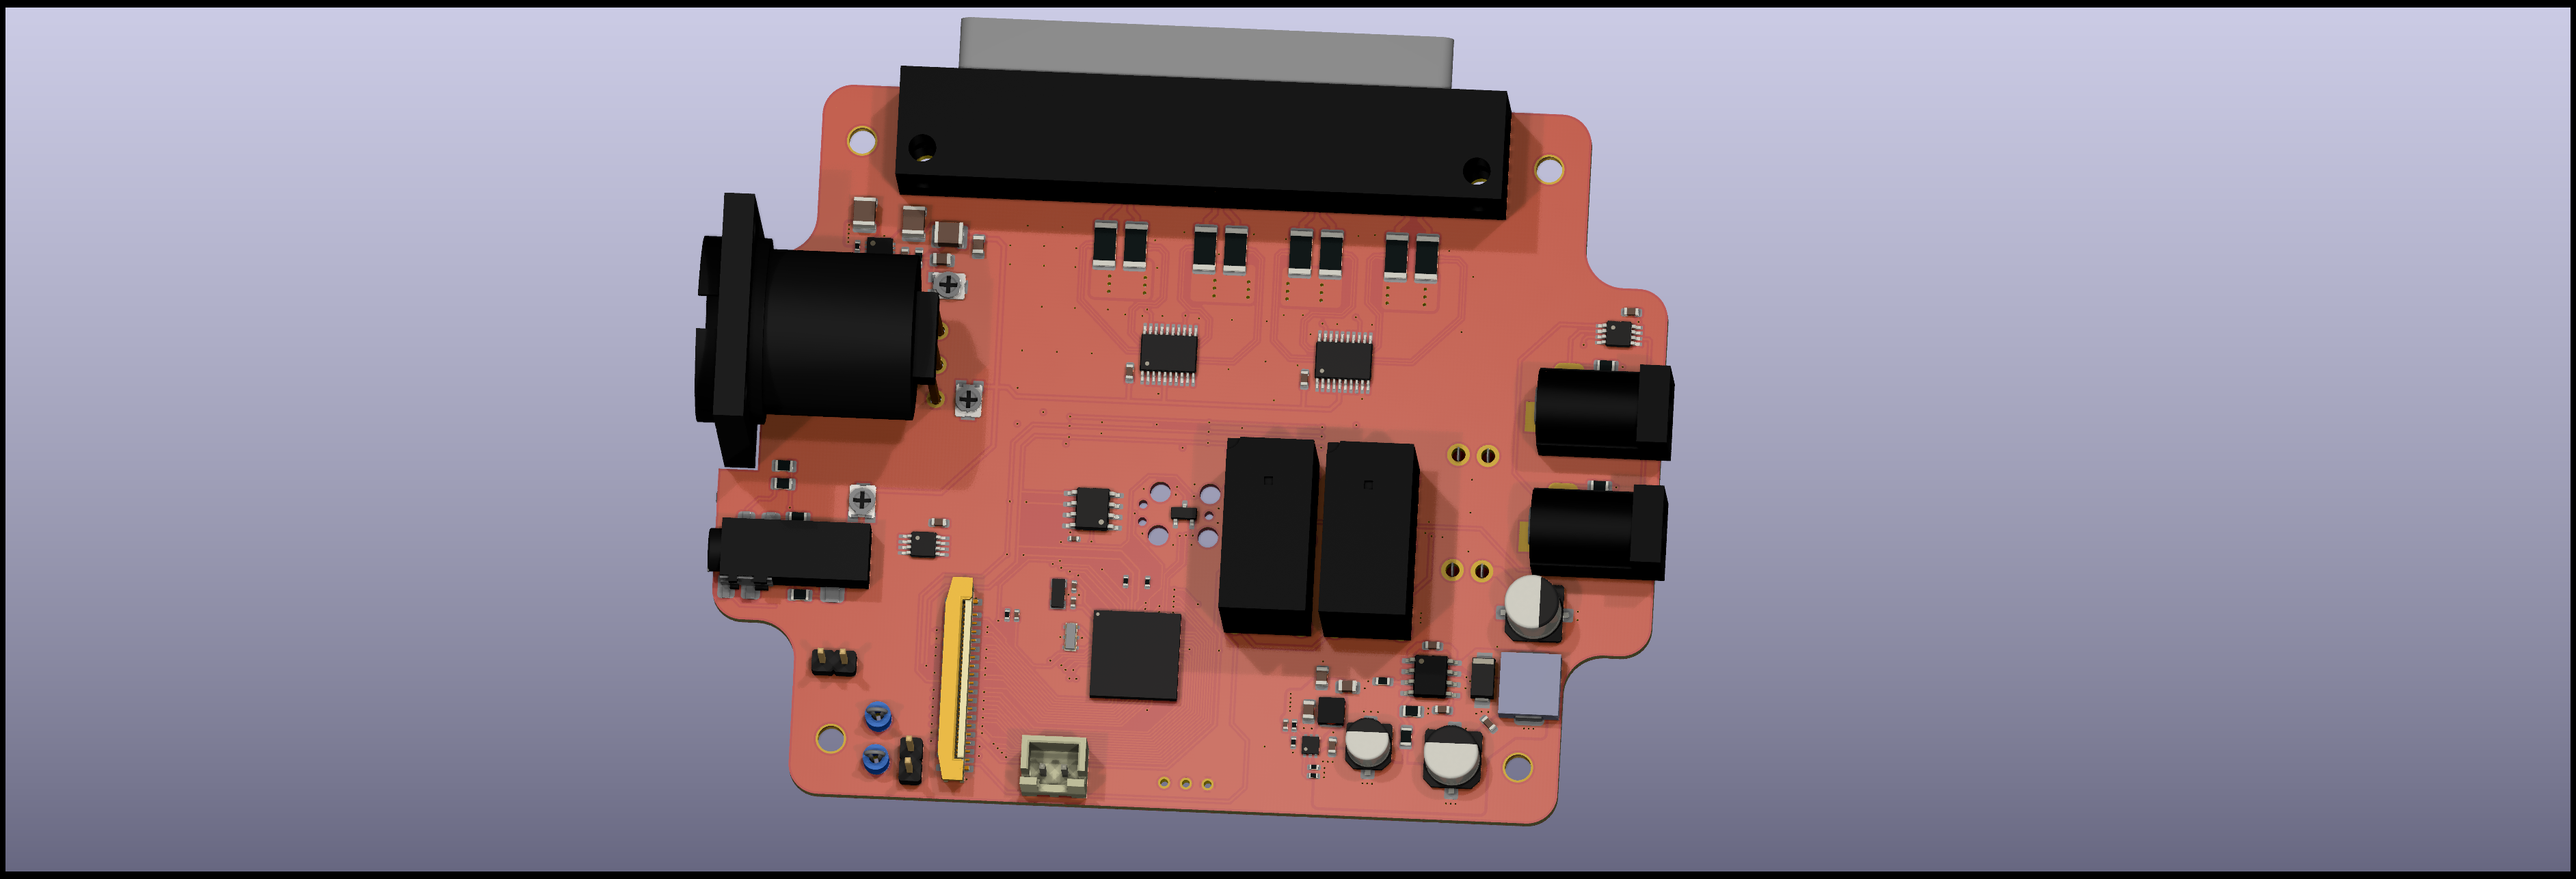
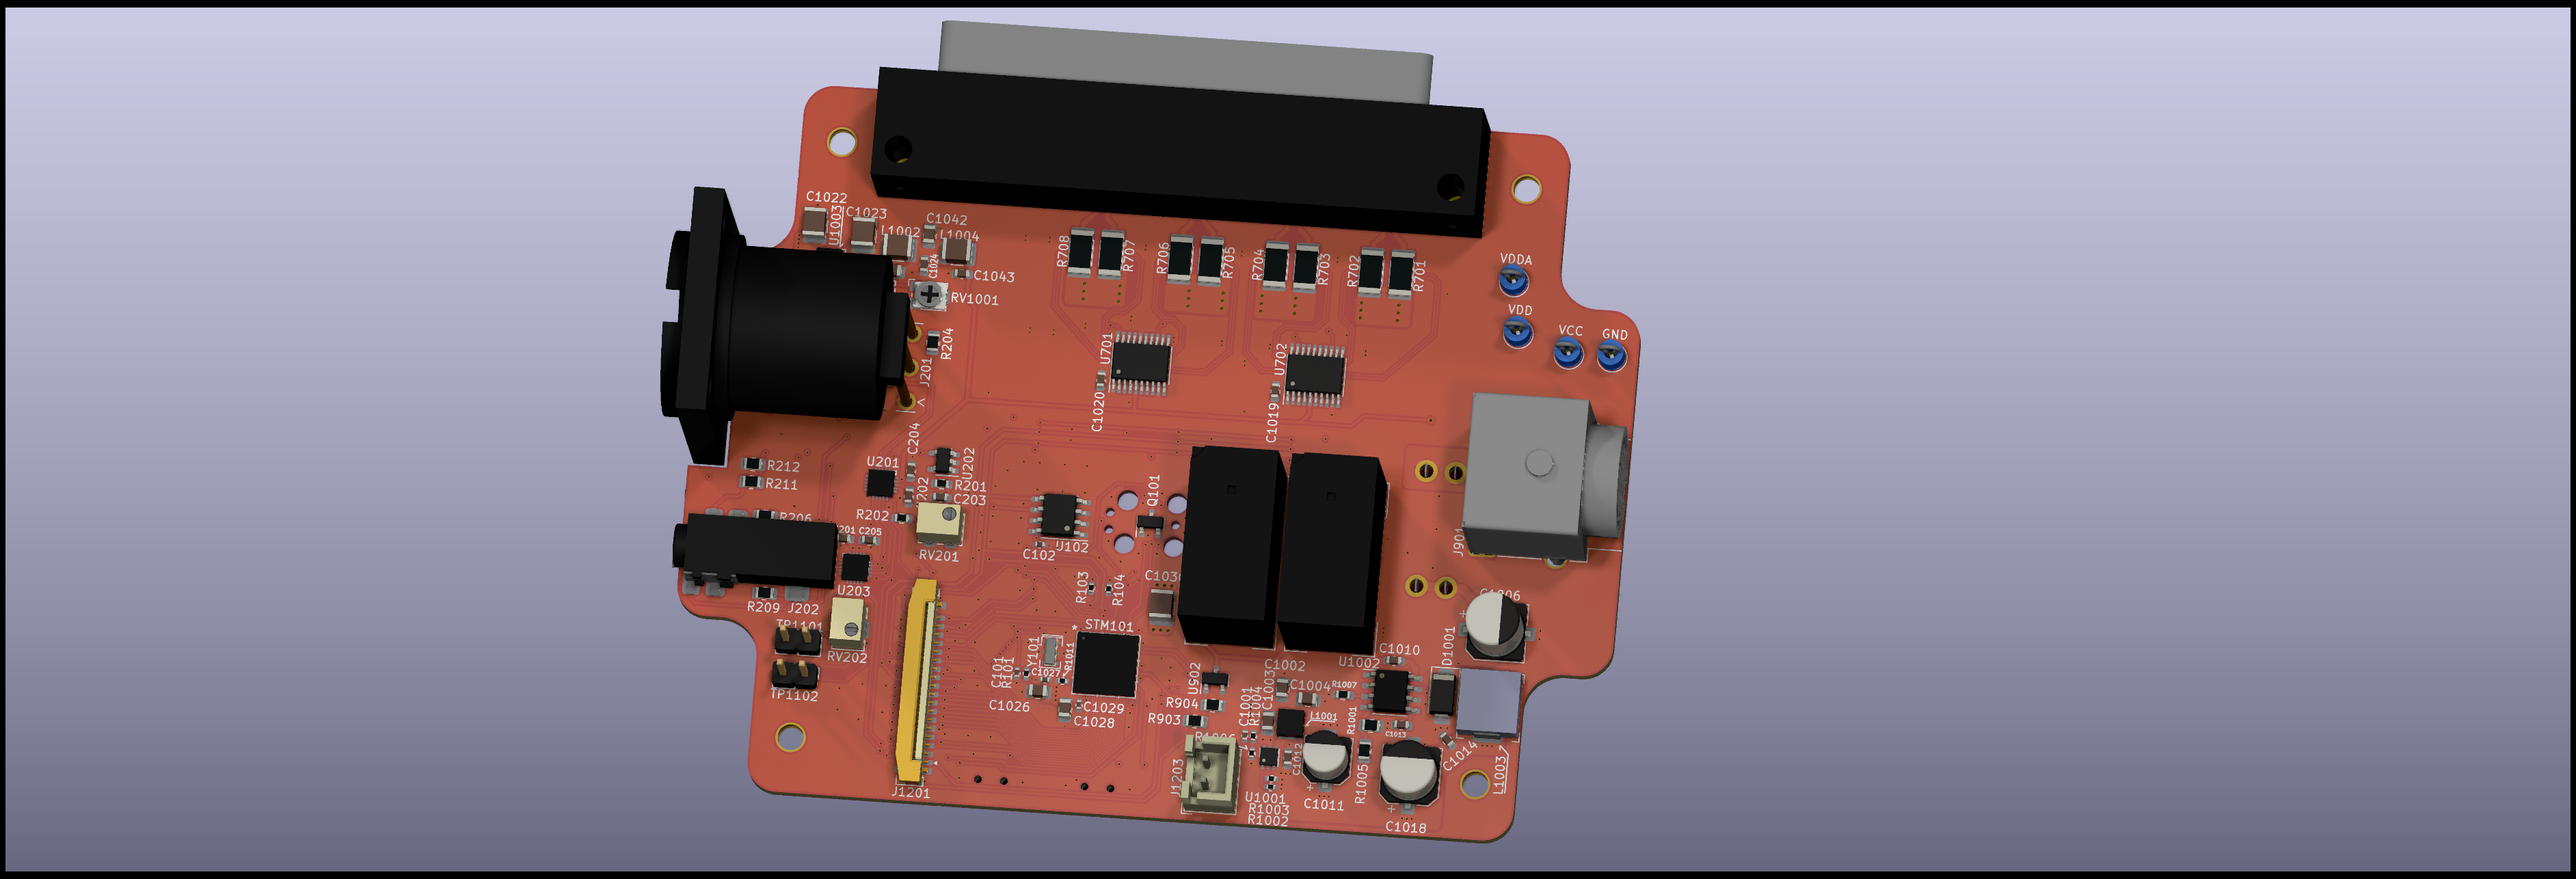
Update readme and add new renders

Changed region(s): [[0.2484, 0.0311, 0.6521, 0.9642], [0.3726, 0.0, 0.4347, 0.0311]]

diff --git a/README.md b/README.md
@@ -8,7 +8,9 @@ This is my dads christmas present. (From last year...) The idea is to lay string
 
 ## Main PCB (WIP)
 
-![Render 1](./Docs/Renders/REV8/LightDrum-Main-top-fancy1.png)
+![Render 1](./Docs/Renders/REV8/LightDrum-Main-top-fancy2.png)
+
+![Render 2](./Docs/Renders/REV8/LightDrum-Main-bot-fancy1.png)
 
 <!-- ## REV7 PCB Stack
 
@@ -24,15 +26,19 @@ This is my dads christmas present. (From last year...) The idea is to lay string
 
 ---
 
+### The "Fun" of routing out BGA packages
+
+![Headache](./Docs/Renders/REV8/my-brain-hurts3.JPG)
+
 ## Features
 
 ### Output
 - 8 Individual LED String Channels
-- 1 Amp per Channel rating
+- 1 Amp Rating per Channel
 
 ## Input
-- 1/8" jack audio
-- XLR Balanced audio
+- 1/8" jack Audio
+- XLR Balanced Audio
 - MIDI
 
 ## PWM channels
@@ -45,23 +51,22 @@ Each channel includes current monitoring with a high-side power override. This i
 
 ## Audio Processing
 
-A 12 bit ADC with a 200KHz sample rate will send the data to the STM32 for processing. That will be used to modify the triggers from the MIDI inputs.
+A 12 bit ADC with a 200KHz sample rate will send the data to the STM32 for processing. That will be used to modify the triggers from the MIDI inputs and run processing techniques like beat detection and filtering.
 
 ## User Interface
 
 - 3.2" TFT LCD Display
 - Directional Buttons for menu navigation
 - Bar Graph for display of audio levels (or anything else I can think of.)
-- 6 LEDs for quick status indication
 - 2 Programmable Rotary Encoders
 
-The display will be a full menu to select modes, configure options, and configure inputs and outputs. I'm using a Nextion display and their GUI editor for all menu rendering.
+The display will contain a full menu to select modes, configure options, and configure inputs and outputs. I'm using a Nextion display and their GUI editor for all menuing.
 
 ## Firmware installation
 
 ### Hardware Requirements
 
-The old firmware was built with the Arduino Framework. The new MCU will be using the ST tools and HAL (Hardware Abstraction Layer) along with the other required libraries. Im using the STLink programmer due to the much better performance and debugging than the ATTiny USB programmer.
+The old firmware was built with the Arduino Framework. The new MCU will be using the ST IDE, toolchain, and HAL (Hardware Abstraction Layer) along with the other required libraries. Im using the STLink programmer due to the much better performance and debugging than the ATTiny USB programmer.
 
 ### OLD PIO Configuration
 
